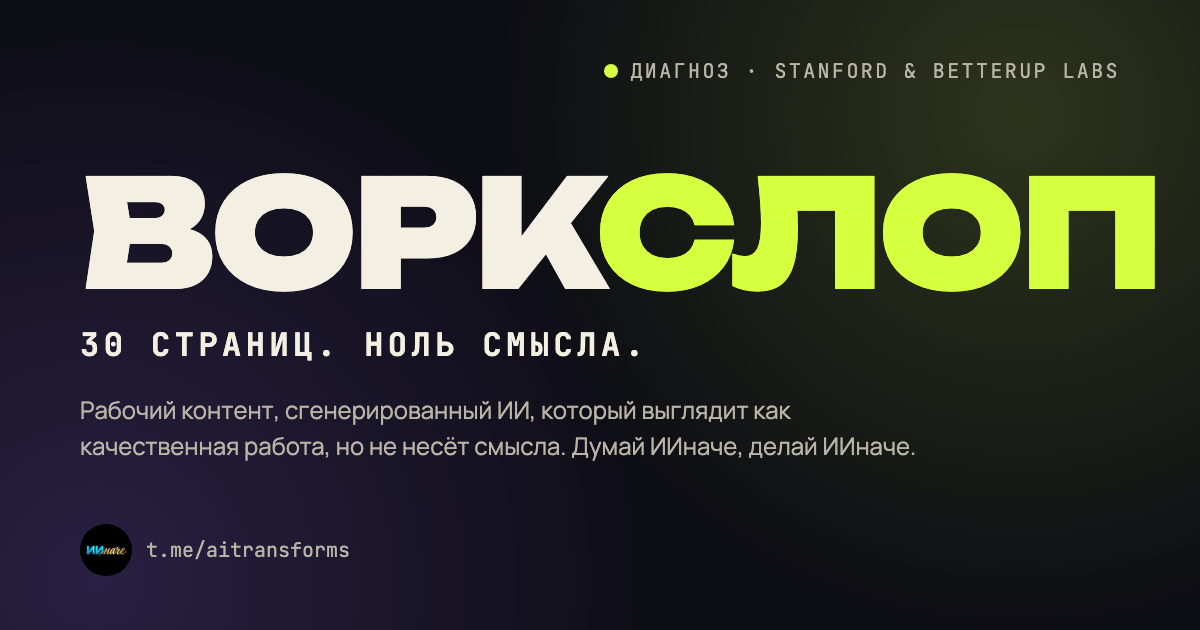
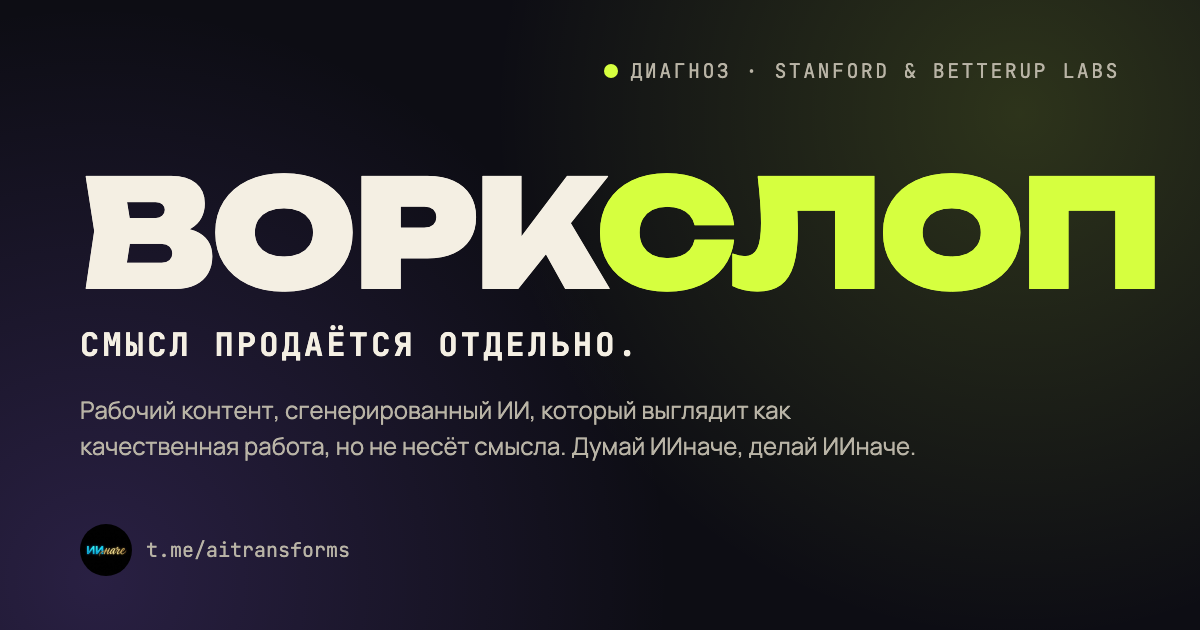
content: абсурдный текст в мета и og-image

Changed region(s): [[0.0617, 0.5127, 0.5242, 0.573]]

diff --git a/index.html b/index.html
@@ -6,7 +6,7 @@
 <title>ВОРКСЛОП — синергетическая платформа</title>
 <meta name="description" content="ВОРКСЛОП — бесшовная синергия прозрачности в реальном времени." />
 <meta property="og:title" content="ВОРКСЛОП — синергетическая платформа" />
-<meta property="og:description" content="Бесшовная синергия прозрачности в реальном времени. 30 страниц, ноль смысла." />
+<meta property="og:description" content="Бесшовная синергия прозрачности в реальном времени. Смысл продаётся отдельно." />
 <meta property="og:type" content="website" />
 <meta property="og:url" content="https://workslop.ru/" />
 <meta property="og:image" content="https://workslop.ru/assets/og-image.png" />
@@ -14,7 +14,7 @@
 <meta property="og:image:height" content="630" />
 <meta name="twitter:card" content="summary_large_image" />
 <meta name="twitter:title" content="ВОРКСЛОП — синергетическая платформа" />
-<meta name="twitter:description" content="Бесшовная синергия прозрачности в реальном времени. 30 страниц, ноль смысла." />
+<meta name="twitter:description" content="Бесшовная синергия прозрачности в реальном времени. Смысл продаётся отдельно." />
 <meta name="twitter:image" content="https://workslop.ru/assets/og-image.png" />
 <meta name="theme-color" content="#0d0d14" />
 <link rel="icon" type="image/png" sizes="64x64" href="assets/favicon.png" />
